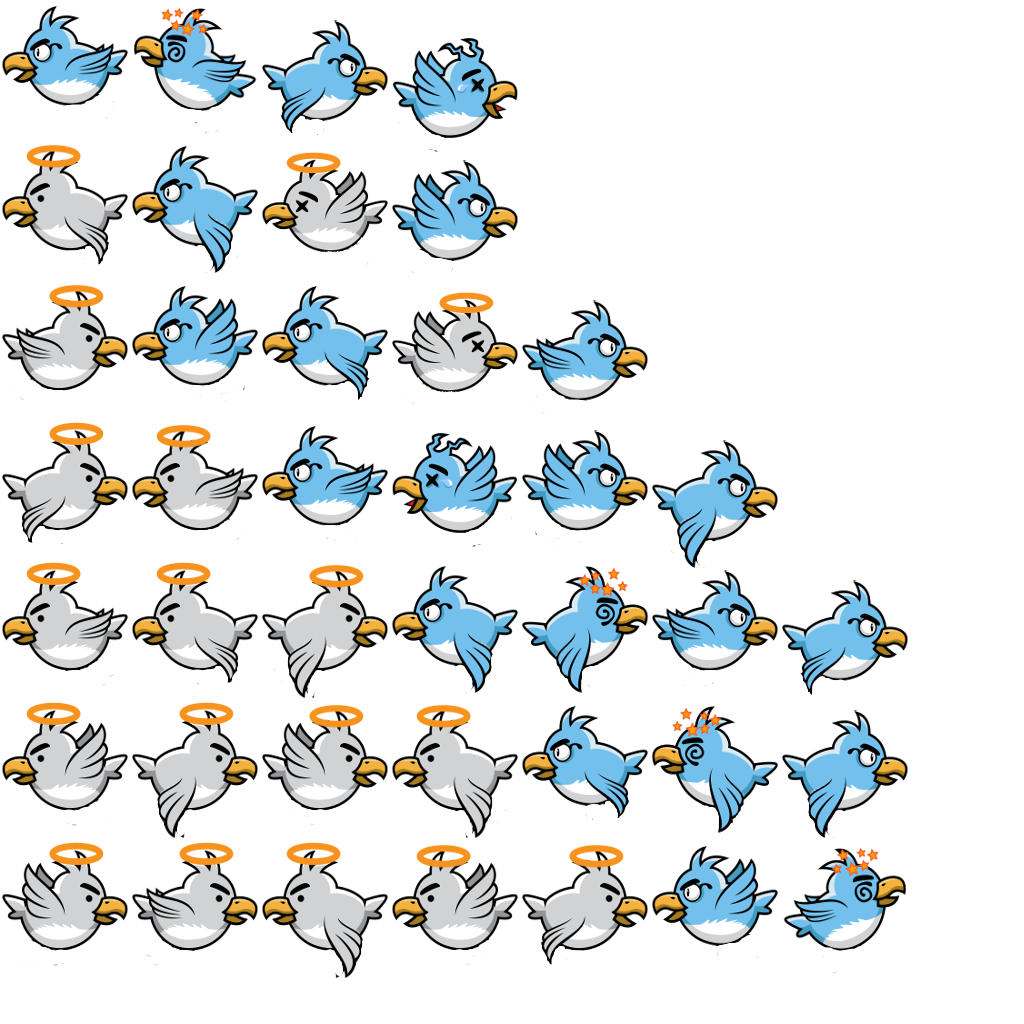
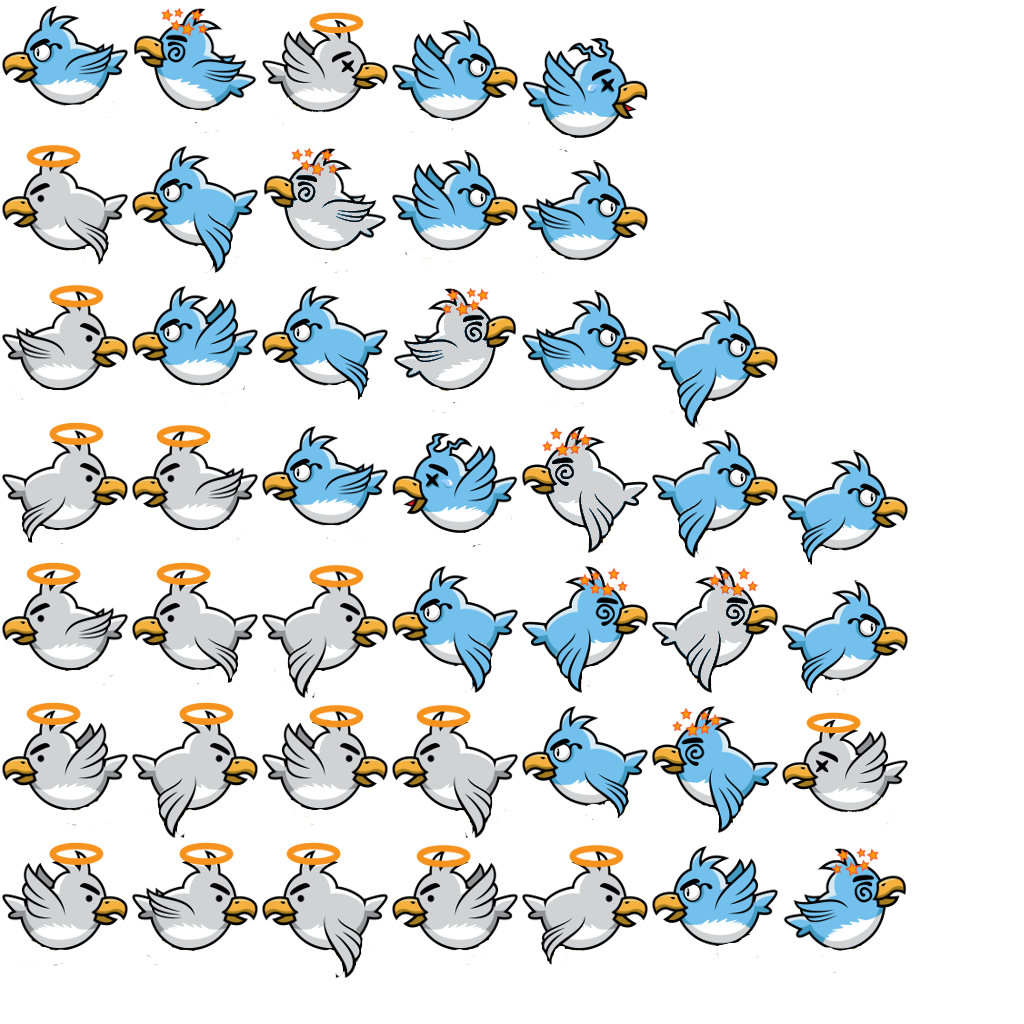
commit

diff --git a/core/src/com/saveggs/game/GameStage.java b/core/src/com/saveggs/game/GameStage.java
@@ -129,7 +129,7 @@ public class GameStage extends Stage implements ContactListener{
 	private int currentLevel;
 	private int maskaKillings,eggHatch = 0;
 	private int defaultMaskKillingsFrequencyMaska1 = 2;
-	private int defaultMaskKillingsFrequencyMaska2 = 3;
+	private int defaultMaskKillingsFrequencyMaska2 = 5;
 	private int maskaAppearingKillings = defaultMaskKillingsFrequencyMaska1;
 	private int maskaAppearingKillings2 = defaultMaskKillingsFrequencyMaska2;
 	private Slider slider;
@@ -320,6 +320,7 @@ public class GameStage extends Stage implements ContactListener{
 			displayScreen();
 			izpuleniQica();
 			logger.log();
+			//System.out.println("size " + uduljavane.size);
 			//System.out.println("texture bindings " + GLProfiler.textureBindings);
 			//System.out.println("draw calls " + GLProfiler.drawCalls);
 			//GLProfiler.reset();
@@ -1057,7 +1058,6 @@ public class GameStage extends Stage implements ContactListener{
 	//remove eggs which have already been izlupeni
 	public void izpuleniQica(){
 		for (Qice qice : allEggs) {	
-			
 			if(qice.uduljavaneIgra && !uduljavane.contains(qice, true))	
 				uduljavane.add(qice);
 				
@@ -1146,7 +1146,25 @@ public class GameStage extends Stage implements ContactListener{
 		enemy.enemyDraw = false;
 		enemy.setSpeed(0);
 		enemy.body.setAwake(false);
+		
+		numberOfEnemyKillings++;
+		
+		if(numberOfEnemyKillings == 2)
+		{
+			System.out.println("padasht Losh");
+			enemyOtherSide.pokajiPadashto = true;
+			numberOfEnemyKillings = 2;
+		}
+		
+		if(numberOfEnemyKillings == 4)
+		{
+			System.out.println("losh");
+			enemyOtherSide.actualAnimation = enemyOtherSide.losh;
+			enemyOtherSide.pokajiLossh = true;
+			numberOfEnemyKillings = 0;
+		}
 
+		
 		enemy.resetBody();
 		//reset the other enemy
 		enemyOtherSide.enemyDraw = true;
@@ -1165,7 +1183,7 @@ public class GameStage extends Stage implements ContactListener{
 		enemyOtherSide.resetBody();
 		//reset enemy1
 		enemy.enemyDraw = true;
-		/*if(numberOfEnemyKillings == maskaAppearingKillings){
+/*		if(numberOfEnemyKillings == maskaAppearingKillings){
 			enemy.switchToMask1();
 		}
 		else if(numberOfEnemyKillings == maskaAppearingKillings2){
@@ -1211,10 +1229,40 @@ public class GameStage extends Stage implements ContactListener{
 	/*
 	 * Contact Listener
 	 */
-	
+	int loshCount = 0;
 	@Override
 	public void beginContact(Contact contact) {
         
+        /**
+         * Razbivane na enemy v Zemqta
+         */
+        if( (contact.getFixtureA().equals(Constants.EnemyHitArea) && contact.getFixtureB().getUserData().equals(Constants.GROUND))
+                || (contact.getFixtureA().getUserData().equals(Constants.GROUND) && contact.getFixtureB().getUserData().equals(Constants.EnemyHitArea)) ){
+        	
+			final Body enemyBody = contact.getFixtureA().getUserData().equals(Constants.EnemyHitArea) ?
+					  contact.getFixtureA().getBody() : contact.getFixtureB().getBody();
+					  
+			Gdx.app.postRunnable(new Runnable() {
+				@Override
+				public void run() {
+					if(enemyBody != null && enemyBody.isAwake()){
+						if(enemyBody == enemyOtherSide.body){
+							System.out.println("goes through ground");
+							if(enemyOtherSide.pribirane)
+							{		
+								((Qice)enemyBody.getFixtureList().first().getUserData()).vzetoQice = true;
+								uduljavane.add(((Qice)enemyBody.getFixtureList().first().getUserData()));
+							}
+							groundExplosion.playAnimation(enemyBody);
+							myMap.earthQuake = true;
+							enemyOtherSide.resetBodyInitalStage();
+							launchEnemy();
+							return;
+						}
+					}	
+				}						  
+			});
+        }
 		/**
 		 * Enemy and qice
 		 */
@@ -1359,29 +1407,32 @@ public class GameStage extends Stage implements ContactListener{
 								return;
 							}
 							//losh
-							if(enemyOtherSide.getCurrentAnimation() == enemyOtherSide.losh){
-								
-								enemyOtherSide.padaneNaDoly();
+							if(enemyOtherSide.getCurrentAnimation() == enemyOtherSide.zamaqnLosh){
+								loshCount+=1;
+								if(loshCount ==2)
+								{									
+									enemyOtherSide.padashtLosh();
+									loshCount = 0;								
+								}
 								return;
 							}
 							
 							if(enemyOtherSide.enemyDraw){
-								if(numberOfEnemyKillings == maskaAppearingKillings)
+								//normal
+								if(enemyOtherSide.pokajiPadashto)
 								{
 									enemyOtherSide.actualAnimation = enemyOtherSide.zamaqnoPilence;
-									maskaAppearingKillings = numberOfEnemyKillings + defaultMaskKillingsFrequencyMaska1;
 									return;
 								}
+								
 								//losh
-								if(numberOfEnemyKillings == maskaAppearingKillings2)
+								if(enemyOtherSide.pokajiLossh)
 								{
-									enemyOtherSide.actualAnimation = enemyOtherSide.losh;
-									maskaAppearingKillings2 = numberOfEnemyKillings + defaultMaskKillingsFrequencyMaska2;
+									enemyOtherSide.actualAnimation = enemyOtherSide.zamaqnLosh;
 									return;
 								}
 								explosion.playAnimation(enemyOtherSide.body);
 							}
-							numberOfEnemyKillings++;
 							
 							//puskane na qiceto
 							if(enemyOtherSide.pribirane){
@@ -1389,89 +1440,31 @@ public class GameStage extends Stage implements ContactListener{
 								((Qice)toRemove2.getFixtureList().first().getUserData()).body.setTransform(toRemove2.getPosition(), 0);
 								((Qice)toRemove2.getFixtureList().first().getUserData()).vzetoQice = false;
 								((Qice)toRemove2.getFixtureList().first().getUserData()).razmazanoQice = true;
-							}
-							
-							// launching both enemies
-							if(numberOfEnemyKillings > launchBothEnemies){								
-								//launch both enemies
-								if(internetEnabled && timeIntervalAds >= timeAds){
-									for(Qice qice: allEggs){
-										qice.pause();
-									}
-									adsController.showInterstitialAd(new Runnable() {
-										@Override
-										public void run() {
-											timeIntervalAds = 0;
-											for(Qice qice: allEggs){
-												qice.resume();
-											}
+							}							
+							//if mobile enabled
+							if(internetEnabled && timeIntervalAds >= timeAds){
+								for(Qice qice: allEggs){
+									qice.pause();
+								}
+								adsController.showInterstitialAd(new Runnable() {
+									@Override
+									public void run() {
+										timeIntervalAds = 0;
+										for(Qice qice: allEggs){
+											qice.resume();
 										}
-									});
-								}
-								timeIntervalAds++;
-								if(!enemy.enemyDraw){
-									launchEnemyTwo();
-									launchEnemyOne();
-								}
-								else
-									launchEnemyTwo();
-								//reset
-								if(timeIntervalAds > timeAds)
-									timeIntervalAds = 0;					
-							}
-							//one enemy
-							else
-							{								
-								//if mobile enabled
-								if(internetEnabled && timeIntervalAds >= timeAds){
-									for(Qice qice: allEggs){
-										qice.pause();
 									}
-									adsController.showInterstitialAd(new Runnable() {
-										@Override
-										public void run() {
-											timeIntervalAds = 0;
-											for(Qice qice: allEggs){
-												qice.resume();
-											}
-										}
-									});
-								}
-								timeIntervalAds++;
-								launchEnemy();
-								//reset
-								if(timeIntervalAds > timeAds)
-									timeIntervalAds = 0;
+								});
 							}
-							
+							timeIntervalAds++;
+							launchEnemy();
+							//reset
+							if(timeIntervalAds > timeAds)
+								timeIntervalAds = 0;
 						}
 					});
 				}
 			}
-        }
-        
-        /**
-         * Razbivane na enemy v Zemqta
-         */
-        if( (contact.getFixtureA().equals(Constants.EnemyHitArea) && contact.getFixtureB().getBody().getUserData().equals(Constants.GROUND))
-                || (contact.getFixtureA().getBody().getUserData().equals(Constants.GROUND) && contact.getFixtureB().getUserData().equals(Constants.EnemyHitArea)) ){
-        	
-			final Body enemyBody = contact.getFixtureA().getUserData().equals(Constants.EnemyHitArea) ?
-					  contact.getFixtureA().getBody() : contact.getFixtureB().getBody();
-					  
-			Gdx.app.postRunnable(new Runnable() {
-				@Override
-				public void run() {
-					if(enemyBody != null && enemyBody.isAwake()){
-						if(enemyBody == enemyOtherSide.body){							
-							groundExplosion.playAnimation(enemyBody);
-							myMap.earthQuake = true;
-							enemyOtherSide.resetBodyInitalStage();
-							launchEnemy();
-						}
-					}	
-				}						  
-			});
         }
         
         /**

diff --git a/core/src/com/sageggs/actors/enemies/EnemyOtherSide.java b/core/src/com/sageggs/actors/enemies/EnemyOtherSide.java
@@ -29,11 +29,11 @@ public class EnemyOtherSide extends GameActor{
 
 	public static boolean stopMoving = false; 
 	public static float angle = 0;
-	private AnimatedSprite animatedSprite,animatedSprite2,animatedSprite3;
-	public AnimatedBox2DSprite normalFlyingPile,zamaqnoPilence,actualAnimation,losh;
+	private AnimatedSprite animatedSprite,animatedSprite2,animatedSprite3,animatedSprite4;
+	public AnimatedBox2DSprite normalFlyingPile,zamaqnoPilence,actualAnimation,losh,zamaqnLosh;
 	public Box2DSprite naOtivane,otvarqne,hvanatoQice,padashtoPile,padashtLosh;
-	public Animation animation,animation2,animation3;
-	private TextureRegion[] region1,region2,region3;
+	public Animation animation,animation2,animation3,animation4;
+	private TextureRegion[] region1,region2,region3,region4;
 	public boolean naOtivaneDraw = true;
 	public boolean hvashtane = false;
 	public boolean pribirane = false;
@@ -58,11 +58,8 @@ public class EnemyOtherSide extends GameActor{
 	private float speedBoost = 0;
 	private TextureAtlas atlas,atlas2;
 	private float flySpeed = 0;
-	public boolean padashto = false;
-	//private Box2DSprite maska;
-	//private TextureRegion brokenMask,normalMask,hardestMask1,hardestMask2,hardestMask3;
-	//public boolean enemyHit,maskaBurst,showMaskHit,showMaskHit2 = false;
-	//public boolean mask,showMask2 = false;
+	public boolean padashto,padashtoLosh = false;
+	public boolean pokajiPadashto,pokajiLossh = false;
 	
 	public EnemyOtherSide(Body body,Array<Qice> eggs,Map<String,Vector2> worldBodies) {
 		super(body);
@@ -97,11 +94,16 @@ public class EnemyOtherSide extends GameActor{
 		//anim3
 		animation3 = new Animation(1f/13f, region3);
 		animation3.setPlayMode(Animation.PlayMode.LOOP);
+		//amnim4
+		animation4 = new Animation(1f/13f, region4);
+		animation4.setPlayMode(Animation.PlayMode.LOOP);
 		
 		animatedSprite = new AnimatedSprite(animation);
 		animatedSprite2 = new AnimatedSprite(animation2);
 		animatedSprite3 = new AnimatedSprite(animation3);
+		animatedSprite4 = new AnimatedSprite(animation4);
 		
+		zamaqnLosh = new AnimatedBox2DSprite(animatedSprite4);
 		losh = new AnimatedBox2DSprite(animatedSprite3);
 		normalFlyingPile = new AnimatedBox2DSprite(animatedSprite2);
 		zamaqnoPilence = new AnimatedBox2DSprite(animatedSprite);
@@ -116,6 +118,7 @@ public class EnemyOtherSide extends GameActor{
 		//flip all sprites
 		normalFlyingPile.flipFrames(true, true);
 		zamaqnoPilence.flipFrames(true, true);
+		zamaqnLosh.flipFrames(true, true);
 		losh.flipFrames(true, true);
 		padashtoPile.flip(true, true);
 		padashtLosh.flip(true, true);
@@ -213,6 +216,10 @@ public class EnemyOtherSide extends GameActor{
         		padashtoPile.setRotation(body.getAngle() - 90f);
         		padashtoPile.draw(batch, body.getFixtureList().first());
         	}
+        	else if(padashtoLosh){
+        		padashtLosh.setRotation(body.getAngle() - 90f);
+        		padashtLosh.draw(batch, body.getFixtureList().first());
+        	}
         	else{
         		actualAnimation.draw(batch, body.getFixtureList().first()); 
         	}
@@ -225,9 +232,13 @@ public class EnemyOtherSide extends GameActor{
 		 region1 = new TextureRegion[2];
 		 region2 = new TextureRegion[8];
 		 region3 = new TextureRegion[8];
+		 region4 = new TextureRegion[2]; 
 		 
 		 region1[0] = atlas.findRegion("zamaqno1");
 		 region1[1] = atlas.findRegion("zamaqno2");
+		 //losh
+		 region4[0]= atlas.findRegion("zamaqnoLosh11");
+		 region4[1]= atlas.findRegion("zamaqnoLosh21");
 		 //
 		 region2[0] = atlas.findRegion("normal1");
 		 region2[1] = atlas.findRegion("normal2");
@@ -302,12 +313,26 @@ public class EnemyOtherSide extends GameActor{
 	public void resetBodyInitalStage(){
 		body.setGravityScale(0);
 		padashto = false;
+		padashtoLosh = false;
 		actualAnimation = normalFlyingPile;
+		pokajiPadashto = false;
+		pokajiLossh = false;
 	}
 	
 	public void padaneNaDoly(){
 		padashto = true;
+		padashtoLosh = false;
 		body.setGravityScale(0.5f);
+	}
+	
+	public void padashtLosh(){
+		padashtoLosh = true;
+		padashto = false;
+		body.setGravityScale(0.5f);
+	}
+	
+	public void setLosh(){
+		actualAnimation = losh;
 	}
 	
 }
